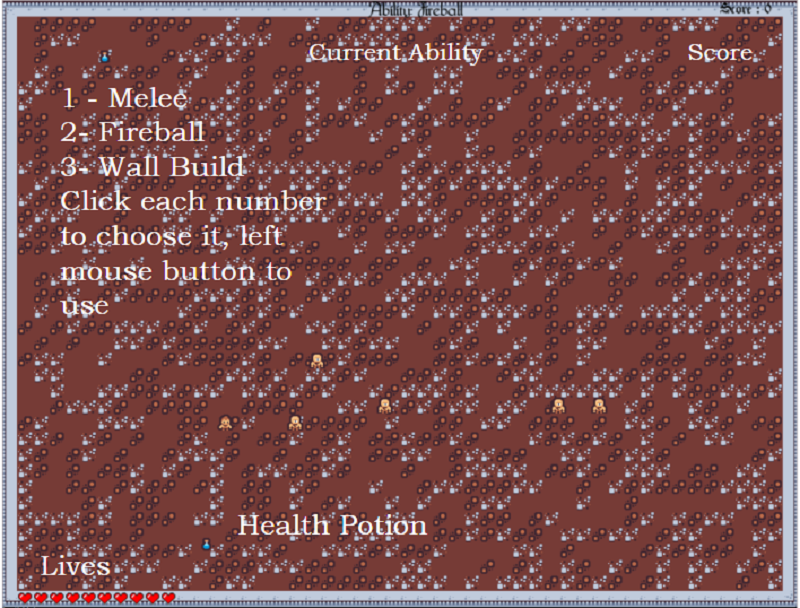
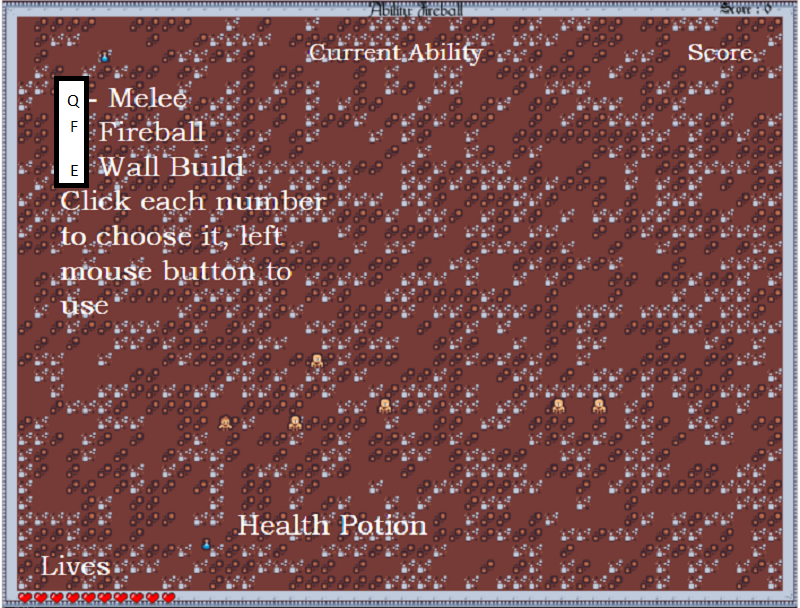
Switched Keybinds, and cleaned up code

Changed region(s): [[0.0625, 0.125, 0.125, 0.3125]]

diff --git a/Final Game/level_three.py b/Final Game/level_three.py
@@ -10,22 +10,28 @@ import sys
 def level_three(hero):
     hero.weapon = 1
     hero.speed = PLAYER_SPEED
+
     #Init a screen
     screen = pygame.display.set_mode((SCREEN_WIDTH, SCREEN_HEIGHT))
     pygame.display.set_caption("Level Three")
+
     #This is code for my wall lifespan
     wall_life = 0
+
     #Creating a enemy sprites
     background.add_wizards(hero,5)
     background.add_swordsmen(hero,5)
+
     #Creating Lives
     lives = NUM_LIVES
     hearts = pygame.image.load("assets/backgrounds/misc_sprites/heart.png").convert()
     hearts.set_colorkey((255,255,255))
+
     # Clock object
     clock = pygame.time.Clock()
     score = 0
     health_potions = 0
+
     #Adding score font
     score_font = pygame.font.Font("assets/fonts/Old London.ttf", 16)
     ability_font = pygame.font.Font("assets/fonts/BRIDGE.TTF", 16)
@@ -33,6 +39,7 @@ def level_three(hero):
     weapon_text = "Sword"
     arena = screen.copy()
     background.draw_level_three(arena)
+
     # Presenting abilities:
     screen.blit(arena, (0, 0))
     ability_text1 = ability_font_big.render("New Ability: Wall Build", True, (255, 255, 255))
@@ -41,7 +48,7 @@ def level_three(hero):
     ability_text3 = ability_font_big.render("you drag. If it hits an enemy you do NOT gain", True,
                                             (255, 255, 255))
     ability_text4 = ability_font_big.render("a point,but it will kill them and fireballs. Left click to begin", True, (255, 255, 255))
-    ability_text5 = ability_font_big.render("Press 3 on the keyboard to access this ability", True, (255, 255, 255))
+    ability_text5 = ability_font_big.render("Press E on the keyboard to access this ability", True, (255, 255, 255))
     screen.blit(ability_text1, (260, 100))
     screen.blit(ability_text2, (64, 132))
     screen.blit(ability_text3, (32, 164))
@@ -55,6 +62,7 @@ def level_three(hero):
                 sys.exit()
             if event.type == pygame.MOUSEBUTTONDOWN and event.button == 1:
                 click = True
+
     #Main Loops
     while score < L3_WIN and lives > 0:
         for event in pygame.event.get():
@@ -62,20 +70,12 @@ def level_three(hero):
                 break
             #Weapon Change:
             if event.type == pygame.KEYDOWN:
-                if event.key == pygame.K_1:
+                if event.key == pygame.K_q:
                     hero.weapon = 1
-                elif event.key == pygame.K_2:
+                elif event.key == pygame.K_f:
                     hero.weapon = 2
-                elif event.key == pygame.K_3:
+                elif event.key == pygame.K_e:
                     hero.weapon = 3
-            #Checking if you clicked on an enemy("Sword") and if they're in melee range(ONLY WORKS WHEN WEAPON IS 1)
-            if event.type == pygame.MOUSEBUTTONDOWN and event.button == 1 and hero.weapon == 1:
-                # Check if the mouse click is on any sprite in the group- CHAT GPT CODE
-                clicked_sprites = [sprite for sprite in wizards if sprite.rect.collidepoint(event.pos)]
-                for clicked_sprite in clicked_sprites:
-                    if abs(clicked_sprite.rect.x-hero.rect.x) <= MELEE_RANGE and abs(clicked_sprite.rect.y-hero.rect.y) <= MELEE_RANGE:
-                        clicked_sprite.kill()  # Remove the clicked sprite from the group
-                        score += 1
             if event.type == pygame.MOUSEBUTTONDOWN and event.button == 1 and hero.weapon == 1:
                 # Check if the mouse click is on any sprite in the group- CHAT GPT CODE
                 clicked_sprites = [sprite for sprite in swordsmen if sprite.rect.collidepoint(event.pos)]
@@ -83,9 +83,11 @@ def level_three(hero):
                     if abs(clicked_sprite.rect.x-hero.rect.x) <= MELEE_RANGE and abs(clicked_sprite.rect.y-hero.rect.y) <= MELEE_RANGE:
                         clicked_sprite.kill()  # Remove the clicked sprite from the group
                         score += 1
+
             #This code is for weapon 2, fireball(or arrows, whichever I havea picture for)
             if event.type == pygame.MOUSEBUTTONDOWN and event.button == 1 and hero.weapon == 2:
                 fireballs.add(Fireball("assets/backgrounds/misc_sprites/fireball.png",hero.rect.x,hero.rect.y,*event.pos))
+
             #This is code for weapon 3, defensive weapon
             if event.type == pygame.MOUSEMOTION and pygame.mouse.get_pressed()[0] and hero.weapon == 3:
                 # Create a new sprite while the left mouse button is pressed and mouse is moving
@@ -100,6 +102,7 @@ def level_three(hero):
         swordsmen.update()
         fireballs.update()
         enemy_fireballs.update()
+
         #Checking to ensure there is always 5 wizards on the screen:
         if len(wizards) < 5:
             background.add_wizards(hero,(5-len(wizards)))

diff --git a/Final Game/level_two.py b/Final Game/level_two.py
@@ -9,21 +9,24 @@ import sys
 def level_two(hero):
     hero.weapon = 1
     hero.speed = PLAYER_SPEED
+
     #Init a screen
     screen = pygame.display.set_mode((SCREEN_WIDTH, SCREEN_HEIGHT))
     pygame.display.set_caption("Level Two")
-    #This is code for my wall lifespan
-    wall_life = 0
+
     #Creating a enemy sprites
     background.add_wizards(hero,5)
+
     #Creating Lives
     lives = NUM_LIVES
     hearts = pygame.image.load("assets/backgrounds/misc_sprites/heart.png").convert()
     hearts.set_colorkey((255,255,255))
+
     # Clock object
     clock = pygame.time.Clock()
     score = 0
     health_potions = 0
+
     #Adding score font
     score_font = pygame.font.Font("assets/fonts/Old London.ttf", 16)
     ability_font = pygame.font.Font("assets/fonts/BRIDGE.TTF", 16)
@@ -31,13 +34,14 @@ def level_two(hero):
     weapon_text = "Sword"
     arena = screen.copy()
     background.draw_level_two(arena)
+
     #Presenting abilities:
     screen.blit(arena,(0,0))
     ability_text1 = ability_font_big.render("New Ability: Fireball",True,(255,255,255))
     ability_text2 = ability_font_big.render("How to use: Click to create a fireball that will travel",True,(255,255,255))
     ability_text3 = ability_font_big.render("towards where you clicked. If it hits an enemy you gain ",True,(255,255,255))
     ability_text4 = ability_font_big.render("one point. Left click to begin the level",True, (255,255,255))
-    ability_text5 = ability_font_big.render("Press 2 on the keyboard to access this ability", True, (255, 255, 255))
+    ability_text5 = ability_font_big.render("Press F on the keyboard to access this ability", True, (255, 255, 255))
     screen.blit(ability_text1,(275,100))
     screen.blit(ability_text2,(64,132))
     screen.blit(ability_text3,(32,164))
@@ -51,6 +55,7 @@ def level_two(hero):
                 sys.exit()
             if event.type == pygame.MOUSEBUTTONDOWN and event.button == 1:
                 click = True
+
     #Main Loops
     while score < L2_WIN and lives > 0:
         for event in pygame.event.get():
@@ -58,9 +63,9 @@ def level_two(hero):
                 break
             #Weapon Change:
             if event.type == pygame.KEYDOWN:
-                if event.key == pygame.K_1:
+                if event.key == pygame.K_q:
                     hero.weapon = 1
-                elif event.key == pygame.K_2:
+                elif event.key == pygame.K_f:
                     hero.weapon = 2
             #Checking if you clicked on an enemy("Sword") and if they're in melee range(ONLY WORKS WHEN WEAPON IS 1)
             if event.type == pygame.MOUSEBUTTONDOWN and event.button == 1 and hero.weapon == 1:
@@ -71,6 +76,7 @@ def level_two(hero):
                         clicked_sprite.kill()  # Remove the clicked sprite from the group
                         score += 1
                         background.add_wizards(hero,1)
+
             #This code is for weapon 2, fireball(or arrows, whichever I havea picture for)
             if event.type == pygame.MOUSEBUTTONDOWN and event.button == 1 and hero.weapon == 2:
                 fireballs.add(Fireball("assets/backgrounds/misc_sprites/fireball.png",hero.rect.x,hero.rect.y,*event.pos))
@@ -83,6 +89,7 @@ def level_two(hero):
         wizards.update()
         fireballs.update()
         enemy_fireballs.update()
+
         #Checking to ensure there is always 5 wizards on the screen:
         if len(wizards) < 5:
             background.add_wizards(hero,(5-len(wizards)))
@@ -95,6 +102,7 @@ def level_two(hero):
                                              hero.rect.x,hero.rect.y))
                 enemy_fireballs.speed = ENEMY_FIREBALL_SPEED
 
+        #Changing Fireball speed
         for fireball in enemy_fireballs:
             fireball.speed = ENEMY_FIREBALL_SPEED
 

diff --git a/Final Game/level_one.py b/Final Game/level_one.py
@@ -12,17 +12,20 @@ def level_one(hero):
     #Init a screen
     screen = pygame.display.set_mode((SCREEN_WIDTH, SCREEN_HEIGHT))
     pygame.display.set_caption("Level One")
-    #This is code for my wall lifespan
+
     #Creating a enemy sprites
     background.add_swordsmen(hero,5)
+
     #Creating Lives
     lives = NUM_LIVES
     hearts = pygame.image.load("assets/backgrounds/misc_sprites/heart.png").convert()
     hearts.set_colorkey((255,255,255))
+
     # Clock object
     clock = pygame.time.Clock()
     score = 0
     health_potions = 0
+
     #Adding score font
     score_font = pygame.font.Font("assets/fonts/Old London.ttf", 16)
     ability_font = pygame.font.Font("assets/fonts/BRIDGE.TTF", 16)
@@ -30,16 +33,19 @@ def level_one(hero):
     weapon_text = "Sword"
     arena = screen.copy()
     background.draw_level_one(arena)
+
     #Presenting abilities:
     screen.blit(arena,(0,0))
     ability_text1 = ability_font_big.render("New Ability: Melee Attack",True,(255,255,255))
     ability_text2 = ability_font_big.render("How to use: When within 5 tiles of an enemy if you click",True,(255,255,255))
     ability_text3 = ability_font_big.render("on them they will die and you will gain one point",True,(255,255,255))
     ability_text4 = ability_font_big.render("Left click to begin the level",True, (255,255,255))
+    ability_text5 = ability_font_big.render("Press Q on the keyboard to access this ability", True, (255, 255, 255))
     screen.blit(ability_text1,(215,100))
     screen.blit(ability_text2,(32,132))
     screen.blit(ability_text3,(64,164))
     screen.blit(ability_text4,(215,196))
+    screen.blit(ability_text5, (116, 228))
     pygame.display.flip()
     click = False
     while click != True:
@@ -69,7 +75,7 @@ def level_one(hero):
         #Updating things that move:
         hero.update()
         swordsmen.update()
-        fireballs.update()
+
         #Checking to ensure there is always 5 swoardsmen on the screen:
         if len(swordsmen) < 5:
             background.add_swordsmen(hero,(5-len(swordsmen)))
@@ -86,6 +92,7 @@ def level_one(hero):
         hero.draw(screen)
         swordsmen.draw(screen)
         potion.draw(screen)
+
         # Track lives in lower left corner:
         for i in range(1,lives+1):
             screen.blit(hearts, (BASETILE_SIZE * i, SCREEN_HEIGHT - BASETILE_SIZE))
@@ -103,7 +110,7 @@ def level_one(hero):
             health_potions = 0
 
         #Displaying score:
-        text = score_font.render(f"Score : {score}", True, (0, 0, 0))
+        text = score_font.render(f"Score : {score}", True, (0,0,0))
         screen.blit(text, (SCREEN_WIDTH - BASETILE_SIZE * 5, 0))
 
         #Shwoing equiped ability:

diff --git a/Final Game/level_four.py b/Final Game/level_four.py
@@ -9,21 +9,27 @@ import sys
 def level_four(hero):
     hero.weapon = 1
     hero.speed = PLAYER_SPEED
+
     #Init a screen
     screen = pygame.display.set_mode((SCREEN_WIDTH, SCREEN_HEIGHT))
     pygame.display.set_caption("Level Four")
+
     #This is code for my wall lifespan
     wall_life = 0
+
     #Creating a enemy sprites
     background.add_super(hero,10)
+
     #Creating Lives
     lives = NUM_LIVES
     hearts = pygame.image.load("assets/backgrounds/misc_sprites/heart.png").convert()
     hearts.set_colorkey((255,255,255))
+
     # Clock object
     clock = pygame.time.Clock()
     score = 0
     health_potions = 0
+
     #Adding score font
     score_font = pygame.font.Font("assets/fonts/Old London.ttf", 16)
     ability_font = pygame.font.Font("assets/fonts/BRIDGE.TTF", 16)
@@ -31,6 +37,7 @@ def level_four(hero):
     weapon_text = "Sword"
     arena = screen.copy()
     background.draw_level_four(arena)
+
     # Presenting abilities:
     screen.blit(arena, (0, 0))
     ability_text4 = ability_font_big.render("Final Level: These enemies are SUPER UNITS ", True, (255, 255, 255))
@@ -47,6 +54,7 @@ def level_four(hero):
                 sys.exit()
             if event.type == pygame.MOUSEBUTTONDOWN and event.button == 1:
                 click = True
+
     #Main Loops
     while score < L4_WIN and lives > 0:
         for event in pygame.event.get():
@@ -54,11 +62,11 @@ def level_four(hero):
                 break
             #Weapon Change:
             if event.type == pygame.KEYDOWN:
-                if event.key == pygame.K_1:
+                if event.key == pygame.K_q:
                     hero.weapon = 1
-                elif event.key == pygame.K_2:
+                elif event.key == pygame.K_f:
                     hero.weapon = 2
-                elif event.key == pygame.K_3:
+                elif event.key == pygame.K_e:
                     hero.weapon = 3
             #Checking if you clicked on an enemy("Sword") and if they're in melee range(ONLY WORKS WHEN WEAPON IS 1)
             if event.type == pygame.MOUSEBUTTONDOWN and event.button == 1 and hero.weapon == 1:
@@ -85,6 +93,7 @@ def level_four(hero):
         supers.update()
         fireballs.update()
         enemy_fireballs.update()
+
         #Checking to ensure there is always 5 wizards on the screen:
         if len(supers) < 10:
             background.add_super(hero,(10-len(supers)))

diff --git a/Final Game/main.py b/Final Game/main.py
@@ -82,15 +82,19 @@ while running:
         store.main(screen)
 
     hero.speed = 12
+
     # draw background and update
     screen.blit(background, (0, 0))
+
     #These lines draw my houses and foliage
     misc.draw_red_house(background, 150, 125)
     misc.draw_gray_house(background,600,450)
     object.decor.draw(screen)
+
     #Updates things that are moving
     hero.update()
     NPCS.update()
+
     #Finally drawing things that are moving
     hero.draw(screen)
     NPCS.draw(screen)

diff --git a/Final Game/game_constants.py b/Final Game/game_constants.py
@@ -15,7 +15,7 @@ PROJECTILE_SPEED = 10
 L1_WIN = 10
 L2_WIN = 15
 L3_WIN = 15
-L4_WIN = 20
+L4_WIN = 15
 
 #ENEMY CONSTANTS, anything ENEMY referes to swordsmen
 ENEMY_DAMAGE = 2
@@ -23,7 +23,7 @@ ENEMY_SPEED = 1.5
 WIZARD_SPEED = 1
 WIZARD_MELEE = 1
 WIZARD_FIRE = 3
-FIREBALL_CHANCE = 150
-ENEMY_FIREBALL_SPEED = 5
+FIREBALL_CHANCE = 230
+ENEMY_FIREBALL_SPEED = 10
 
 
